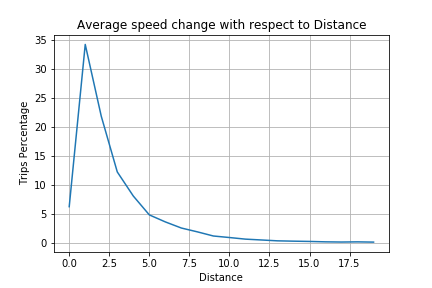
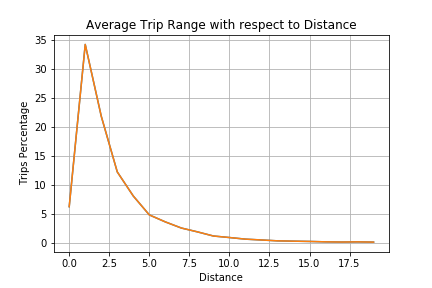
Updated

diff --git a/Final/README.md b/Final/README.md
@@ -153,13 +153,14 @@ The below Plot  show Amount Earned by Different Taxi Companies subcategorzing th
 
 ## 2. Speed Co-relation between No of Rides per hour and Distance
 
-The below plot indicates when the No of Rides are higher the Speed was low
+The below plot indicates when the No of Rides are higher the average speed is low.
+This can be explained as: When the no of rides are higher,there are lot of taxis on the road and causes traffic which results in lower average speed
 
 ![speedchange_trips](https://cloud.githubusercontent.com/assets/25700292/25309312/c7404506-2797-11e7-8bba-f45f29686076.png)
 
-The below plot indicates when the Distance is high the speed is high ,May they are travelling out of city
+The below plot indicates when the no of taxis covering longer distance is lower when compared to taxis covering shorter distance.
 
-![speedchange_distance](https://cloud.githubusercontent.com/assets/25700292/25309311/c73c30e2-2797-11e7-8c94-955e92110dab.png)
+![speedchange_distance](https://cloud.githubusercontent.com/assets/25700292/25309557/75d49350-279e-11e7-8c44-200cc98a3beb.png)
 
 
 ## 3. Average Tip Range for the Drivers and Peak Hours where more Tips were Given
